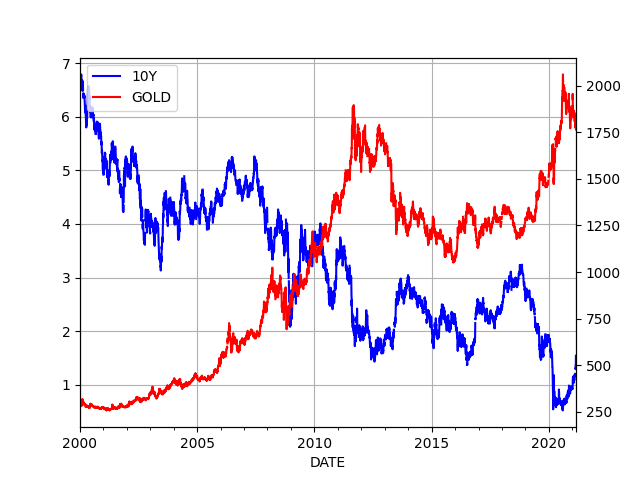
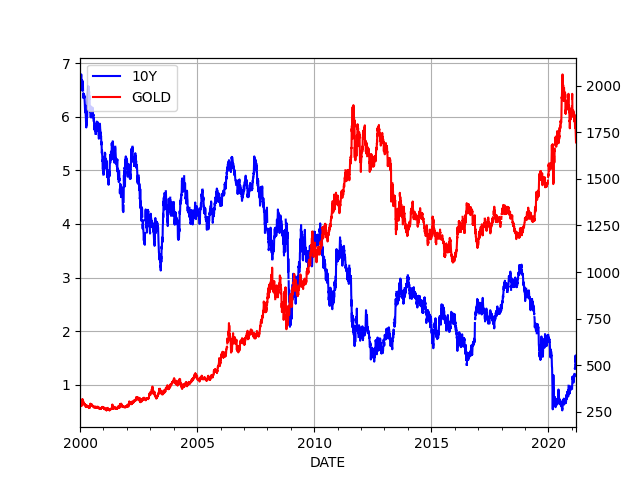
-

diff --git a/en/README.md b/en/README.md
@@ -6,103 +6,129 @@ Pinned Tweets
 
 ---
 
-<blockquote class="twitter-tweet"><p lang="en" dir="ltr">Saudi Arabia is building a $5 billion hydrogen plant powered entirely by sun and wind to beat out China and Europe <a href="https://t.co/5RyXbhjrKG">https://t.co/5RyXbhjrKG</a></p>&mdash; Bloomberg (@business) <a href="https://twitter.com/business/status/1368542709238095873?ref_src=twsrc%5Etfw">March 7, 2021</a></blockquote> <script async src="https://platform.twitter.com/widgets.js" charset="utf-8"></script>
+Now if we can fix the energy side with renewable fuels that relies on
+common ingredients, and physical goods side with truly substituting
+knowledge for atoms, building everything on demand, we might have a
+chance.. Not there yet.  Absent these, might have to change
+incentives, funding to encourage less growth.
 
 ---
 
-This is how important the legal system is. I bet UEA set up this
-English based seperate court system to pull in visitors, investment.
+Govs may want it bcz of their elderly; more citizens paying (tax) for
+a fewer citizens. Companies want growth bcz of their investors who need returns.
+That cld all be fine but sadly, even with services factored in, more growth
+means more shit. As in **physical shit**, goods and materials, resources extracted,
+planet plundered. See the [excerpts](03/2021/goods-materials-growth-hickel.md)
+from a Jason Hickel book. And there is only so much the planet can handle in terms
+of resource extraction.
 
-"[UAE] DIFC Courts began operations in 2006 and was established to
-manage cases relating to companies licensed by the Dubai International
-Financial Centre (DIFC) Free Zone. DIFC Courts is an English language
-court based on those operating within the UK’s common law
-system. Originally set up to manage cases for DIFC companies only,
-today any company in the UAE can opt-in to use DIFC Courts for legal
-matters; all that is required is a clause in a new contract or an
-amendment to an existing one. Differing to onshore courts, DIFC Courts
-hears cases in English"
-
-[Link](https://bcbuae.com/2018/02/05/uaes-commercial-zones-legal-jurisdictions-part-two/)
+"Why does everyone want growth?"
 
 ---
 
-WSJ: "Study of Aggressive Covid-19 Strain in Brazil Suggests Limits of China Vaccine"
+[Wired article](https://www.wired.co.uk/article/lithium-batteries-environment-impact)
+on lithium production.
 
 ---
 
-<blockquote class="twitter-tweet"><p lang="en" dir="ltr">Blue Vs. Green Hydrogen: Which Will The Market Choose? via <a href="https://twitter.com/Forbes?ref_src=twsrc%5Etfw">@forbes</a> <a href="https://t.co/Jjl3xyd8Qh">https://t.co/Jjl3xyd8Qh</a></p>&mdash; Asia-Pacific Hydrogen Association (@APAC_Hydrogen) <a href="https://twitter.com/APAC_Hydrogen/status/1368416220647727104?ref_src=twsrc%5Etfw">March 7, 2021</a></blockquote> <script async src="https://platform.twitter.com/widgets.js" charset="utf-8"></script>
+Im just kidding.. Less royalty when possible is a good thing.
 
 ---
 
-It is somehow pleasant seeing Rob dealing with a random jagoff tuber. 
+RoyalExit; US and Canada can use this... Canada breaks off from
+CommonWealth, construct a new one under Harry and Meghan. It will be a
+new Pacific based CW, Oz and NZ will join. 
 
 ---
 
-🤣 🤣 Robitaille answers a tuber claim
-
-Claim
-<iframe height="100" width="200" src="https://www.youtube.com/embed/JRrTvP95kf4?start=944&end=985" frameborder="0" allow="accelerometer; autoplay; clipboard-write; encrypted-media; gyroscope; picture-in-picture" allowfullscreen></iframe>
-Answer
-<iframe height="100" width="200" src="https://www.youtube.com/embed/JRrTvP95kf4?start=1152&end=1310" frameborder="0" allow="accelerometer; autoplay; clipboard-write; encrypted-media; gyroscope; picture-in-picture" allowfullscreen></iframe>
+So this was RoyalExit? So many exits over there
 
 ---
 
-"@nickmartin
-
-Replying to @OliviaMesser
-
-I experienced something similar at the beginning of a period of being
-uninsured. CVS wanted to charge 750D for a month's supply of a
-medication. Thankfully I didn't pay, and I quickly learned that
-Walmart sold it for $25. Mom and pop pharmacies are usually good about
-this too"
+ITM is a BUY
 
 ---
 
-"@OliviaMesser
-
-Sans insurance for a few days bc paperwork issue. Pharmacy charged me
-$500 for a month’s worth of medicine I *have* to take. With GoodRX the
-same pharmacy would fill the same amount for 13ish. I HATE this. WHICH
-IS IT?? If it’s not worth $500, WHY are you asking me to pay that
-
-This country’s healthcare system is so broken, and sometimes you’re
-randomly presented with irrefutable and absurd evidence of how
-arbitrary the dollar amounts assigned to meds and services are. It
-makes me want to scream"
+Lots of doubters, sure. Unfortunately I have to follow such characters
+because the landscape is littered with dipshits in all walks of
+sci/tech blowing smoke up everyone's ass.
 
 ---
 
-*Ride Along* 👍. That part where IC corners a guy and he gets scared
-starts singing "mamasay mamasa mamakusa". It was funny..
+"Quan Supremacy" is achieving a computation through quantum comp that
+no regular computer can match. Kalai is raising doubts on Goog
+supremacy claims.
+
+"@GilKalai
+
+[Scientists] proposed a general method for simulating quantum circuits
+and announce that they could generate samples from the Sycamore
+circuit with much better fidelity. This sheds doubts on Google's
+'supremacy' claims"
 
 ---
 
-I see.. Whether The Line picks up or not, the area oppo to Sharm El
-Sheik can still generate some returns.
+More from UCDP conflict dataset...
 
-<iframe width="340" src="https://www.youtube.com/embed/41sgRP0G6y4?start=174&end=313" frameborder="0" allow="accelerometer; autoplay; clipboard-write; encrypted-media; gyroscope; picture-in-picture" allowfullscreen></iframe>
+"Yearly Datasets covering 1946 - 2019", "UCDP Dyadic Dataset version
+20.1". All conflicts (global), events recorded are where at least 25
+ppl died. "Dyads", meaning action pairs (A attacks B is a dyad), are
+captured at yearly granularity (A attacks B, in year X, N times,
+appears once in record). Simple plot here on dyad action occurences
+per year,
+
+
+```python 
+import pandas as pd, zipfile
+with zipfile.ZipFile('ucdp-dyadic-201-csv.zip', 'r') as z:
+      df =  pd.read_csv(z.open('ucdp-dyadic-201.csv'))
+df = df[['year','side_a','type_of_conflict','intensity_level']]
+df.groupby('year').size().plot()
+plt.axvspan(2008,2008,color='y')
+plt.axvspan(1989,1989,color='y')
+plt.axvspan(2016,2016,color='y')
+plt.savefig('out.png')
+```
+
+<img width="340" src="https://pbs.twimg.com/media/Ev9qgiUXMAIq6Br?format=png&name=small"/>
+
+There was reduction soon after 1989, the fall of the Berlin Wall. Kept
+on going down past 9/11, past 2001, past the invasion of Iraq.. But, I
+guess bcz by 2008-10 Iraq became FUBAR, vio picked up. Started to
+decrease little before 2016, but still did not go down to 2010 levels.
 
 ---
 
-I started patching up MIT Strang lecs.. this is some next level shit
+Bloomberg: "As governments and industries seek less-polluting
+alternatives to hydrocarbons, the world’s biggest crude exporter
+doesn’t want to cede the burgeoning hydrogen business to China, Europe
+or Australia and lose a potentially massive source of income. So it’s
+building a $5 billion plant powered entirely by sun and wind that will
+be among the world’s biggest green hydrogen makers when it opens in
+the planned megacity of Neom in 2025.
 
----
+The task of turning a patch of desert the size of Belgium into a
+metropolis powered by renewable energy falls to Peter Terium, the
+former chief executive officer of RWE AG, Germany’s biggest utility,
+and clean-energy spinoff Innogy SE...
 
-TechCrunch: "Hyzon Motors' hydrogen fuel ambitions include two US factories"
+That should mean plenty of potential customers for the plant called
+Helios Green Fuels... Saudi Arabia possesses a competitive advantage
+in its perpetual sunshine and wind, and vast tracts of unused
+land. Helios’s costs likely will be among the lowest globally and
+could reach $1.50 per kilogram by 2030, according to BNEF. That’s
+cheaper than some hydrogen made from non-renewable sources today
 
----
+For starters, Helios will produce 650 tons of hydrogen a day by
+electrolysis – enough for conversion to 1.2 million tons per year of
+green ammonia. Air Products will buy all of that ammonia, which is
+easier to ship than liquid or gaseous hydrogen, and convert it back
+upon delivery to customers...
 
-"HyPoint has unveiled the first operable prototype version of its turbo
-air-cooled hydrogen fuel cell system ... Testing has shown that
-HyPoint’s turbo air-cooled hydrogen fuel cell system will be able to
-achieve up to 2,000 watts per kilogram of specific power. Dr. Alex
-Ivanenko, founder and CEO of HyPoint, told Avionics International that
-their technology has drawn interest from a wide range of aircraft
-developers"
+Germany said it needs 'enormous' volumes of green hydrogen, and it
+hopes Saudi Arabia will be a supplier"
 
-[Link](https://www.aviationtoday.com/2021/03/02/hypoint-ceo-talks-new-hydrogen-fuel-cell-operable-prototype-electric-aircraft/)
+[Link](https://www.bloomberg.com/news/articles/2021-03-07/saudi-arabia-s-plan-to-rule-700-billion-hydrogen-market)
 
 ---
 

diff --git a/en/tweets/2021/week10.md b/en/tweets/2021/week10.md
@@ -1,5 +1,105 @@
 # Week 10
 
+<blockquote class="twitter-tweet"><p lang="en" dir="ltr">Saudi Arabia is building a $5 billion hydrogen plant powered entirely by sun and wind to beat out China and Europe <a href="https://t.co/5RyXbhjrKG">https://t.co/5RyXbhjrKG</a></p>&mdash; Bloomberg (@business) <a href="https://twitter.com/business/status/1368542709238095873?ref_src=twsrc%5Etfw">March 7, 2021</a></blockquote> <script async src="https://platform.twitter.com/widgets.js" charset="utf-8"></script>
+
+---
+
+This is how important the legal system is. I bet UEA set up this
+English based seperate court system to pull in visitors, investment.
+
+"[UAE] DIFC Courts began operations in 2006 and was established to
+manage cases relating to companies licensed by the Dubai International
+Financial Centre (DIFC) Free Zone. DIFC Courts is an English language
+court based on those operating within the UK’s common law
+system. Originally set up to manage cases for DIFC companies only,
+today any company in the UAE can opt-in to use DIFC Courts for legal
+matters; all that is required is a clause in a new contract or an
+amendment to an existing one. Differing to onshore courts, DIFC Courts
+hears cases in English"
+
+[Link](https://bcbuae.com/2018/02/05/uaes-commercial-zones-legal-jurisdictions-part-two/)
+
+---
+
+WSJ: "Study of Aggressive Covid-19 Strain in Brazil Suggests Limits of China Vaccine"
+
+---
+
+<blockquote class="twitter-tweet"><p lang="en" dir="ltr">Blue Vs. Green Hydrogen: Which Will The Market Choose? via <a href="https://twitter.com/Forbes?ref_src=twsrc%5Etfw">@forbes</a> <a href="https://t.co/Jjl3xyd8Qh">https://t.co/Jjl3xyd8Qh</a></p>&mdash; Asia-Pacific Hydrogen Association (@APAC_Hydrogen) <a href="https://twitter.com/APAC_Hydrogen/status/1368416220647727104?ref_src=twsrc%5Etfw">March 7, 2021</a></blockquote> <script async src="https://platform.twitter.com/widgets.js" charset="utf-8"></script>
+
+---
+
+It is somehow pleasant seeing Rob dealing with a random jagoff tuber. 
+
+---
+
+🤣 🤣 Robitaille answers a tuber claim
+
+Claim
+<iframe height="100" width="200" src="https://www.youtube.com/embed/JRrTvP95kf4?start=944&end=985" frameborder="0" allow="accelerometer; autoplay; clipboard-write; encrypted-media; gyroscope; picture-in-picture" allowfullscreen></iframe>
+Answer
+<iframe height="100" width="200" src="https://www.youtube.com/embed/JRrTvP95kf4?start=1152&end=1310" frameborder="0" allow="accelerometer; autoplay; clipboard-write; encrypted-media; gyroscope; picture-in-picture" allowfullscreen></iframe>
+
+---
+
+"@nickmartin
+
+Replying to @OliviaMesser
+
+I experienced something similar at the beginning of a period of being
+uninsured. CVS wanted to charge 750D for a month's supply of a
+medication. Thankfully I didn't pay, and I quickly learned that
+Walmart sold it for $25. Mom and pop pharmacies are usually good about
+this too"
+
+---
+
+"@OliviaMesser
+
+Sans insurance for a few days bc paperwork issue. Pharmacy charged me
+$500 for a month’s worth of medicine I *have* to take. With GoodRX the
+same pharmacy would fill the same amount for 13ish. I HATE this. WHICH
+IS IT?? If it’s not worth $500, WHY are you asking me to pay that
+
+This country’s healthcare system is so broken, and sometimes you’re
+randomly presented with irrefutable and absurd evidence of how
+arbitrary the dollar amounts assigned to meds and services are. It
+makes me want to scream"
+
+---
+
+*Ride Along* 👍. That part where IC corners a guy and he gets scared
+starts singing "mamasay mamasa mamakusa". It was funny..
+
+---
+
+I see.. Whether The Line picks up or not, the area oppo to Sharm El
+Sheik can still generate some returns.
+
+<iframe width="340" src="https://www.youtube.com/embed/41sgRP0G6y4?start=174&end=313" frameborder="0" allow="accelerometer; autoplay; clipboard-write; encrypted-media; gyroscope; picture-in-picture" allowfullscreen></iframe>
+
+---
+
+I started patching up MIT Strang lecs.. this is some next level shit
+
+---
+
+TechCrunch: "Hyzon Motors' hydrogen fuel ambitions include two US factories"
+
+---
+
+"HyPoint has unveiled the first operable prototype version of its turbo
+air-cooled hydrogen fuel cell system ... Testing has shown that
+HyPoint’s turbo air-cooled hydrogen fuel cell system will be able to
+achieve up to 2,000 watts per kilogram of specific power. Dr. Alex
+Ivanenko, founder and CEO of HyPoint, told Avionics International that
+their technology has drawn interest from a wide range of aircraft
+developers"
+
+[Link](https://www.aviationtoday.com/2021/03/02/hypoint-ceo-talks-new-hydrogen-fuel-cell-operable-prototype-electric-aircraft/)
+
+---
+
 "@dylanmatt
 
 Still kind of stunned and heartened at the scale of the American

diff --git a/en/2019/05/stats.md b/en/2019/05/stats.md
@@ -496,10 +496,10 @@ plt.savefig('wilshire.png')
 ```text
             WILL5000IND
 DATE                   
-2021-02-22       194.01
-2021-02-23       194.00
-2021-02-24       196.29
-2021-02-25       191.17
+2021-03-02       193.31
+2021-03-03       190.65
+2021-03-04       187.71
+2021-03-05       191.27
 ```
 
 ![](wilshire.png)
@@ -636,11 +636,11 @@ plt.savefig('10yrgld.png')
 ```text
             DGS10  GOLDAMGBD228NLBM
 DATE                               
-2021-02-22   1.37           1798.80
-2021-02-23   1.37           1809.50
-2021-02-24   1.38           1807.25
-2021-02-25   1.54           1792.10
-2021-02-26    NaN           1765.10
+2021-03-01   1.45           1746.95
+2021-03-02   1.42           1728.50
+2021-03-03   1.47           1727.05
+2021-03-04   1.54           1710.05
+2021-03-05    NaN           1696.05
 ```
 
 ![](10yrgld.png)
